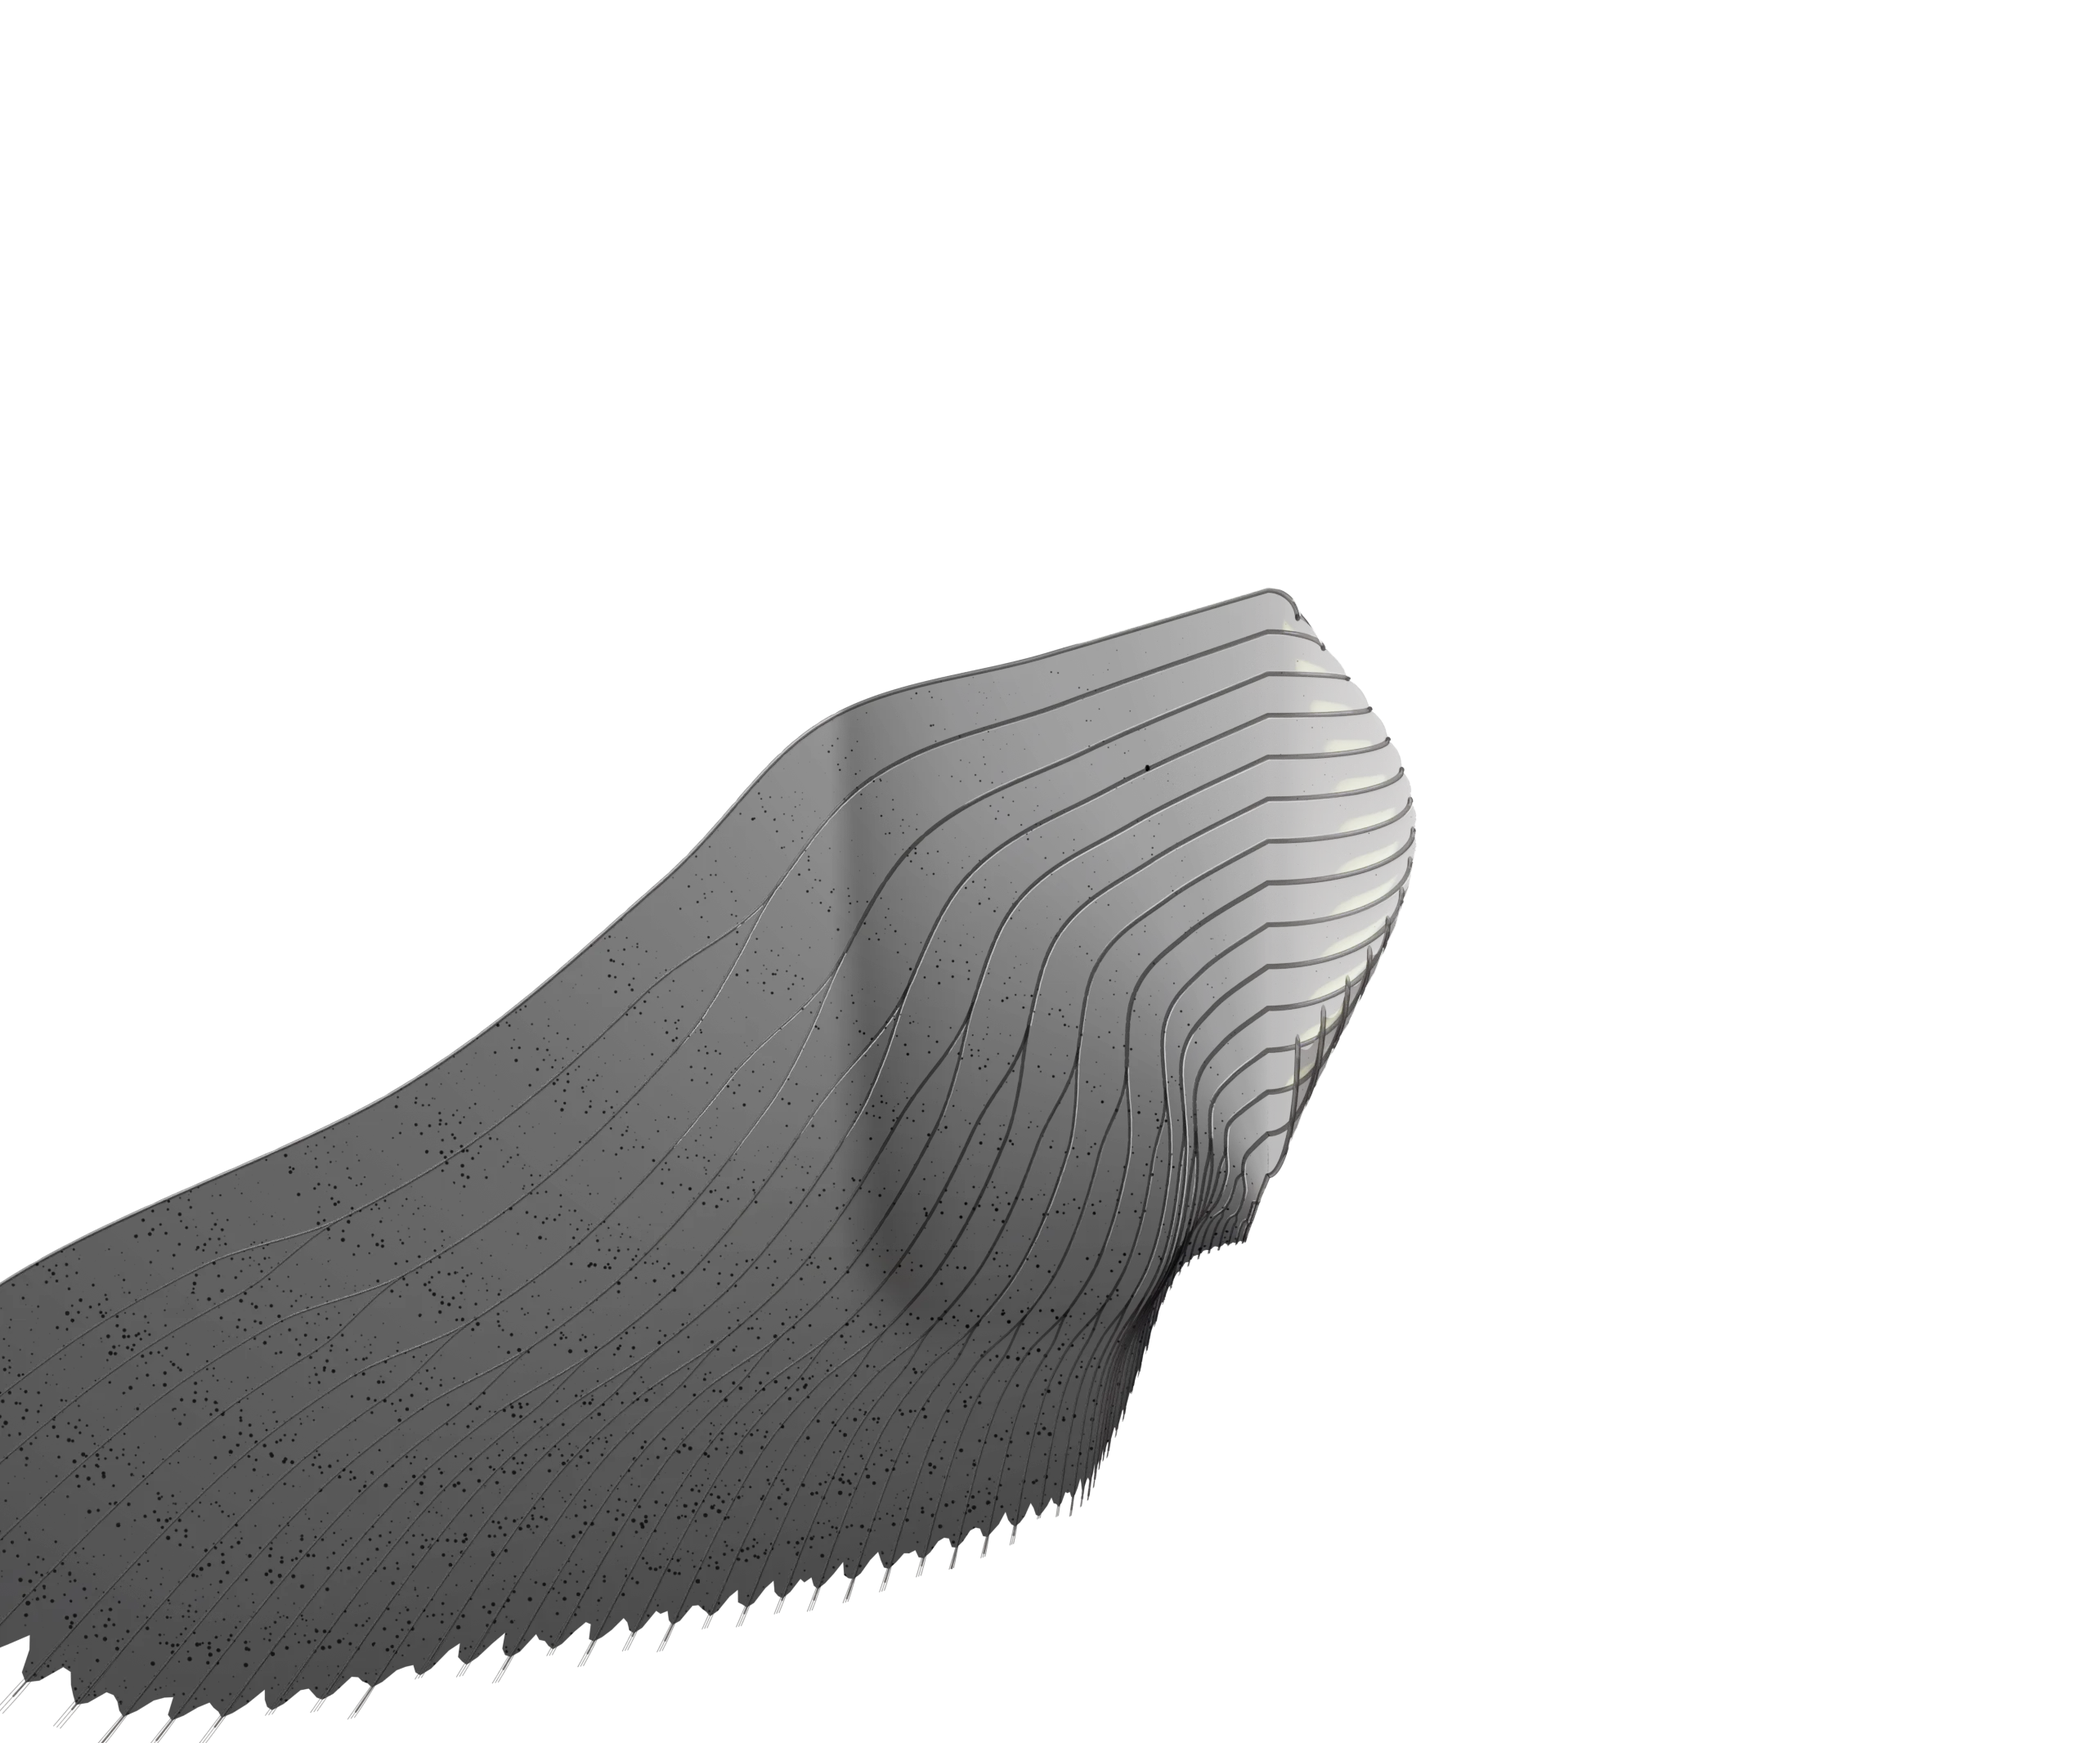
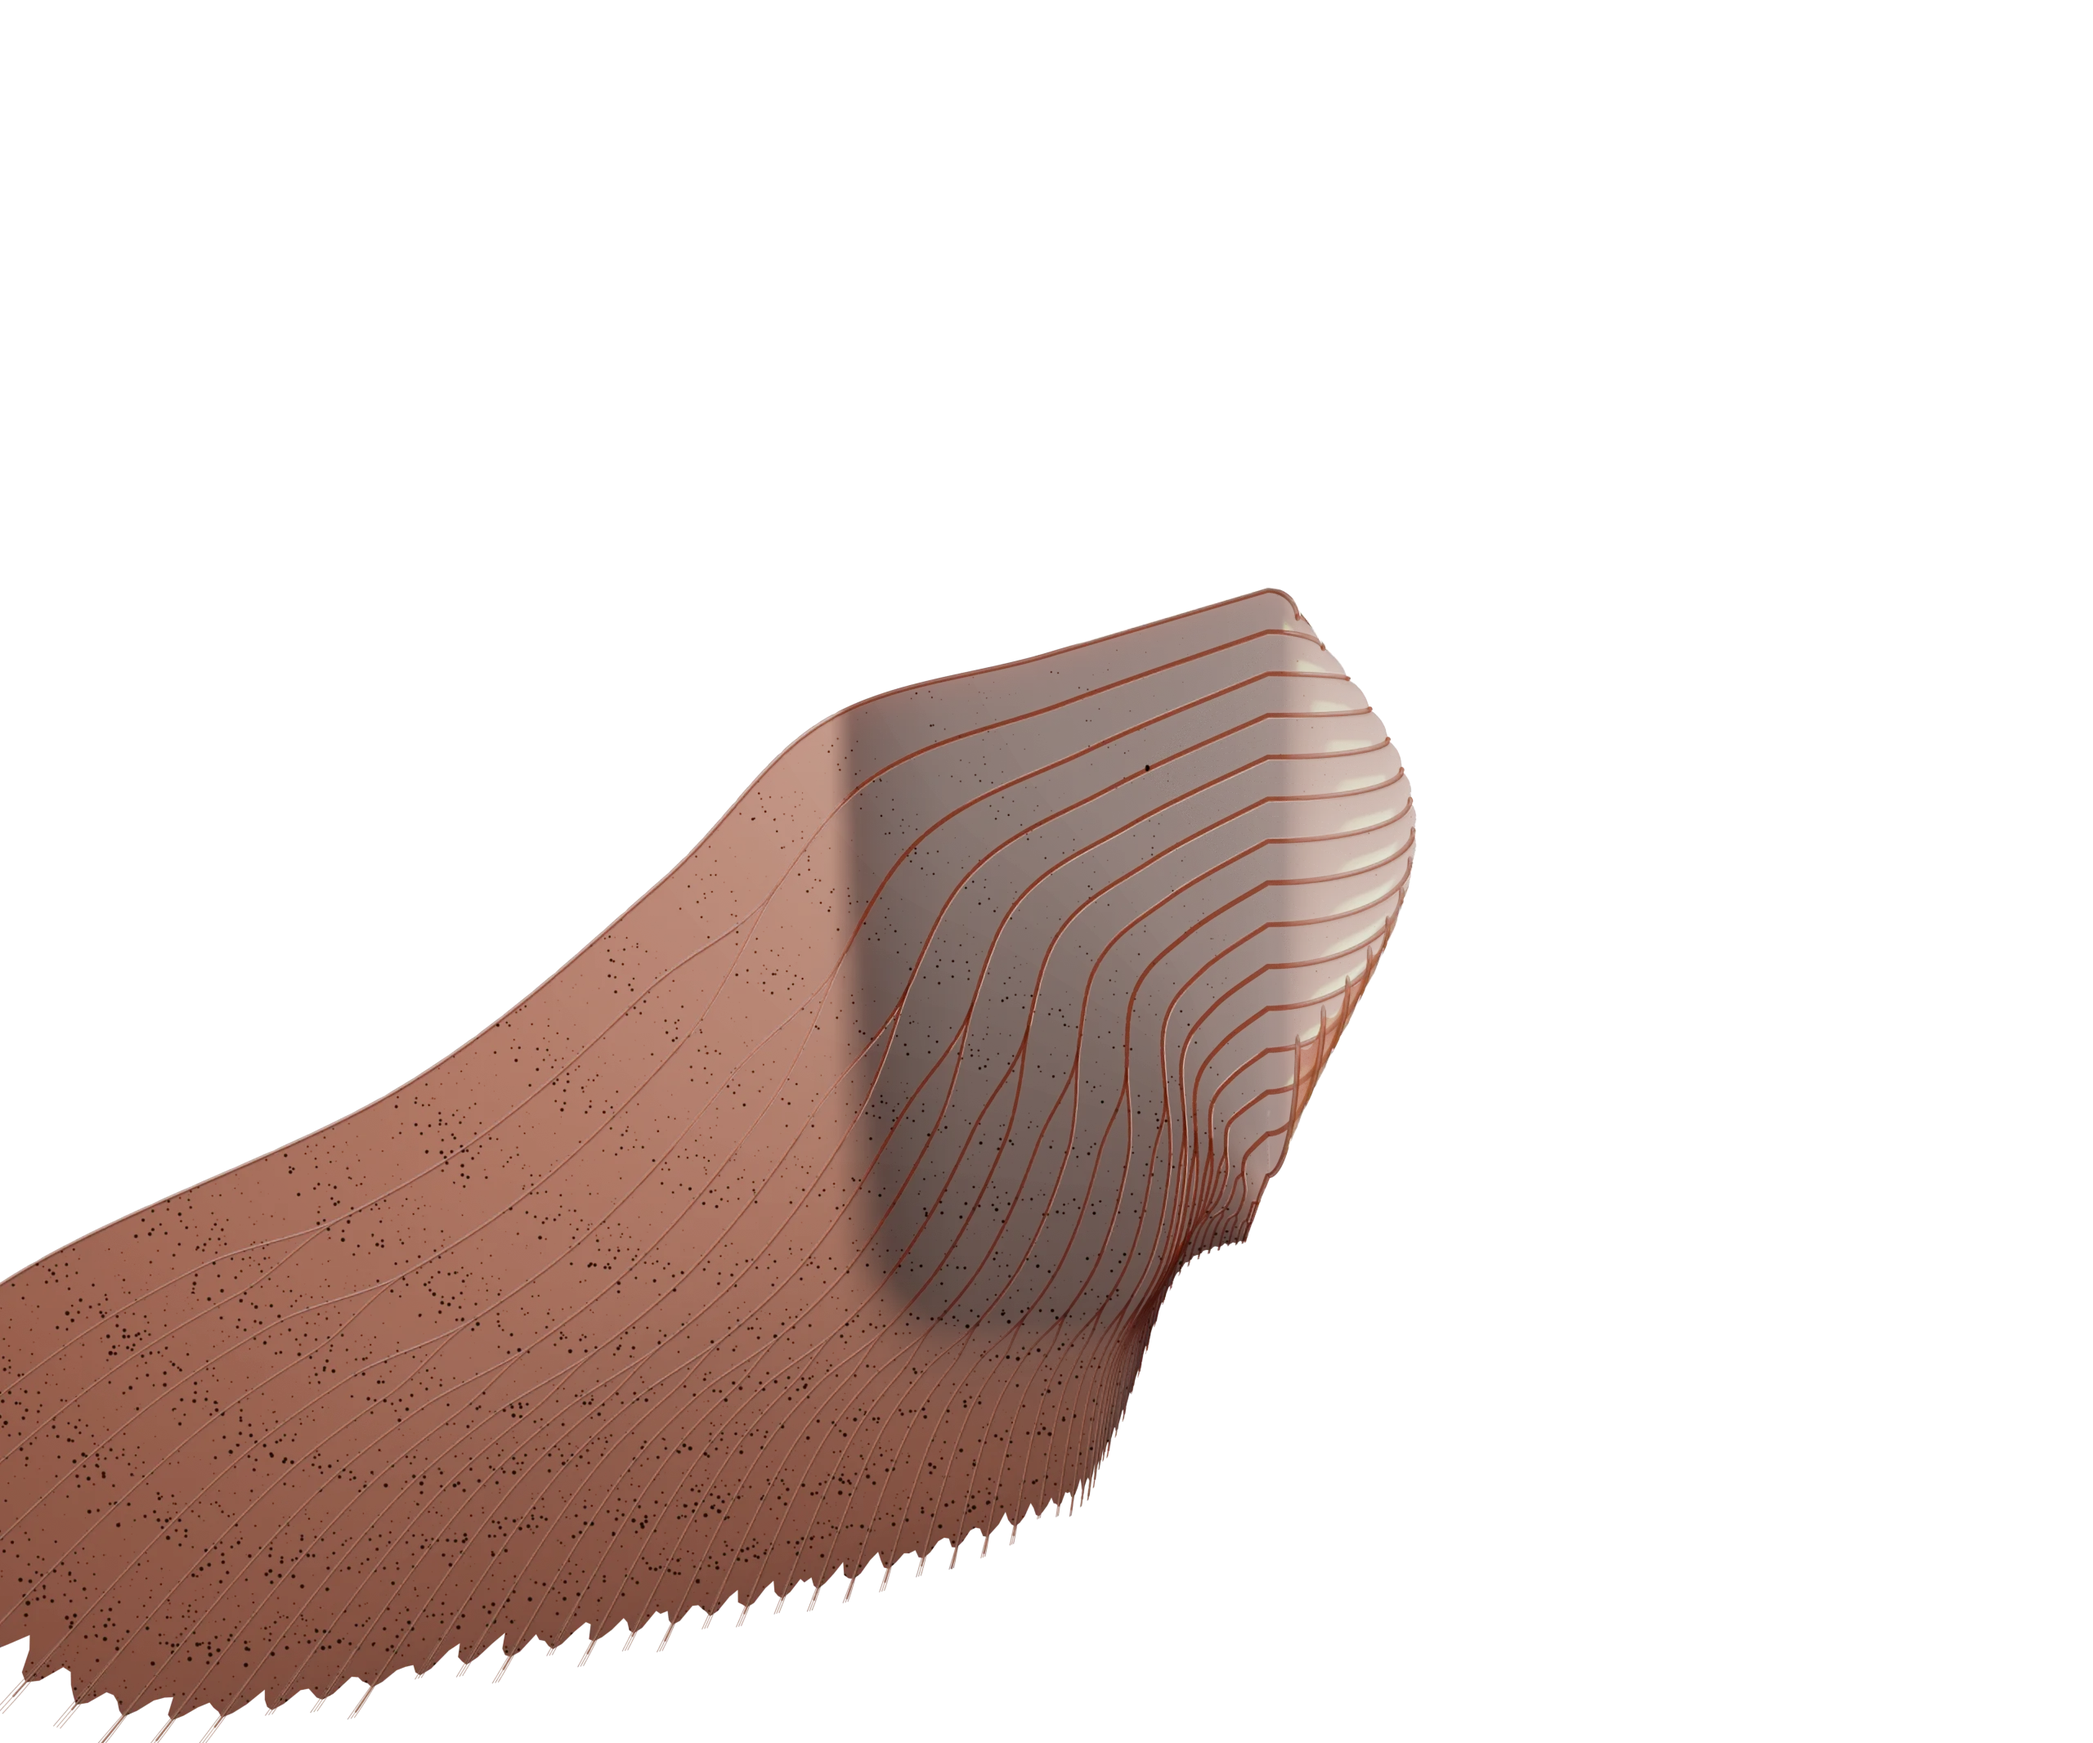
feat(fin): salmon orange throughout, translucent parts included (DEV-193)

Changed region(s): [[0.0, 0.3405, 0.6875, 0.9906]]

diff --git a/blender/fin.py b/blender/fin.py
@@ -171,8 +171,10 @@ def melanophores(nodes, links, v_socket):
 
 
 def membrane_material():
-    """Real pectoral colour, pigment pushed so it reads on the dark section:
-    translucent and pale near the base, dusky and denser toward the margin.
+    """Salmon orange (owner's call, 2026-11-05: "hasta lo transparente tiene
+    que estar anaranjado"): pale salmon at the base, deeper toward the margin.
+    Translucent parts carry the colour too, through subsurface glow, because
+    what a transparent film lets through shows the page untinted.
     The dusk is made of melanophores, the surface carries fine collagen
     striations along the rays, and iridophores give a faint thin-film sheen."""
     # A single surface with a low IOR, not Thin Wall: Cycles counts Thin Wall
@@ -183,6 +185,10 @@ def membrane_material():
     bsdf = nodes["Principled BSDF"]
     bsdf.inputs["IOR"].default_value = 1.1
     bsdf.inputs["Sheen Weight"].default_value = 0.15
+    bsdf.inputs["Sheen Tint"].default_value = (1.0, 0.6, 0.45, 1)
+    bsdf.inputs["Subsurface Weight"].default_value = 0.35
+    bsdf.inputs["Subsurface Radius"].default_value = (1.0, 0.35, 0.2)
+    bsdf.inputs["Subsurface Scale"].default_value = 2.0
     bsdf.inputs["Thin Film Thickness"].default_value = 320
     bsdf.inputs["Thin Film IOR"].default_value = 1.33
 
@@ -192,19 +198,19 @@ def membrane_material():
     w.attribute_name = "w"
     ramp = nodes.new("ShaderNodeValToRGB")
     stops = ramp.color_ramp.elements
-    stops[0].color = (0.88, 0.79, 0.74, 1)  # the pale, faintly fleshy base
+    stops[0].color = (1.0, 0.62, 0.48, 1)  # pale salmon at the base
     stops[1].position = 1.0
-    stops[1].color = (0.09, 0.095, 0.10, 1)
-    # The visible part of the fan sits between v 0.2 and 0.7, so the dusk starts early.
-    for position, grey in ((0.3, 0.36), (0.7, 0.16)):
-        stops.new(position).color = (grey, grey, grey * 1.04, 1)
+    stops[1].color = (0.42, 0.09, 0.05, 1)  # deep red-orange at the margin
+    # The visible part of the fan sits between v 0.2 and 0.7, so it deepens early.
+    for position, color in ((0.3, (1.0, 0.36, 0.22)), (0.7, (0.75, 0.2, 0.11))):
+        stops.new(position).color = (*color, 1)
     links.new(v.outputs["Fac"], ramp.inputs["Fac"])
 
     pigment = melanophores(nodes, links, v.outputs["Fac"])
     speckled = nodes.new("ShaderNodeMix")
     speckled.data_type = "RGBA"
     speckled.blend_type = "MIX"
-    speckled.inputs["B"].default_value = (0.02, 0.018, 0.018, 1)
+    speckled.inputs["B"].default_value = (0.03, 0.012, 0.01, 1)
     links.new(pigment, speckled.inputs["Factor"])
     links.new(ramp.outputs["Color"], speckled.inputs["A"])
     links.new(speckled.outputs["Result"], bsdf.inputs["Base Color"])
@@ -215,10 +221,11 @@ def membrane_material():
     # it, then darkens toward the margin.
     density = nodes.new("ShaderNodeValToRGB")
     clear = density.color_ramp.elements
-    clear[0].color = (0.45, 0.45, 0.45, 1)
+    clear[0].color = (0.3, 0.3, 0.3, 1)
     clear[1].position = 1.0
-    clear[1].color = (0.5, 0.5, 0.5, 1)
-    for position, value in ((0.14, 0.88), (0.35, 0.9)):
+    clear[1].color = (0.35, 0.35, 0.35, 1)
+    # Less clear than a real fin, so the colour holds on the page.
+    for position, value in ((0.14, 0.6), (0.35, 0.6)):
         clear.new(position).color = (value, value, value, 1)
     links.new(v.outputs["Fac"], density.inputs["Fac"])
     blocked = math_node(nodes, "MULTIPLY", None, 0.6)
@@ -245,7 +252,7 @@ def membrane_material():
 def ray_material():
     """Glassy bone: denser than the membrane, so slightly darker, with a lit
     rim and the same faint iridophore sheen."""
-    m = material("Ray", (0.62, 0.60, 0.58), 0.06, transmission=0.8)
+    m = material("Ray", (1.0, 0.6, 0.45), 0.06, transmission=0.6)
     bsdf = m.node_tree.nodes["Principled BSDF"]
     bsdf.inputs["IOR"].default_value = 1.45
     bsdf.inputs["Coat Weight"].default_value = 0.5

diff --git a/docs/fin-preproduction.md b/docs/fin-preproduction.md
@@ -5,6 +5,7 @@ Reemplaza la mano que sostiene el celular en la sección "Real ownership" (`#sal
 ## Decisiones del dueño (2026-11-05)
 
 - Colores de una aleta real, no los del concepto (el concepto tiene base naranja y punta gris azulada con manchas, que no existe en el salmón).
+- Cambio (2026-11-05, después de verla en el sitio): tono naranja salmón en toda la aleta, "hasta lo transparente tiene que estar anaranjado". La anatomía (radios, bifurcaciones, borde, pigmento) sigue siendo la real; el color es de marca. Lo translúcido lleva color propio (subsurface) porque lo que deja pasar un fondo transparente muestra la página sin teñir.
 - Reemplaza la única mano del sitio.
 - Arranca quieta. Después, movimiento de flotación.
 
